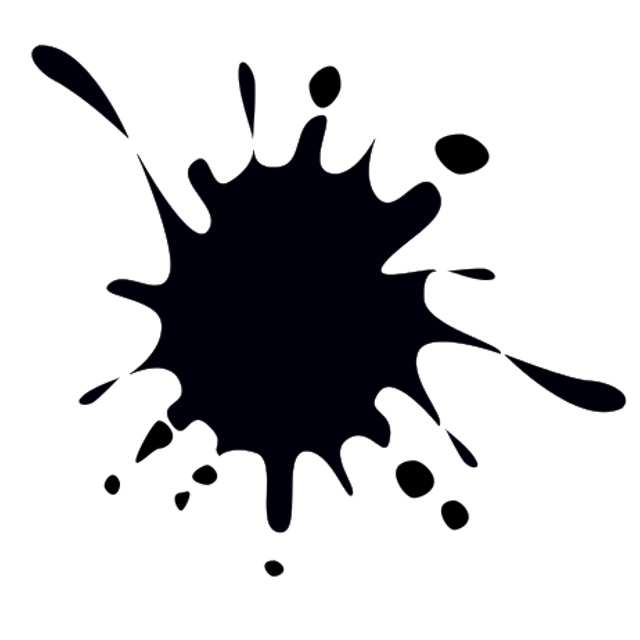
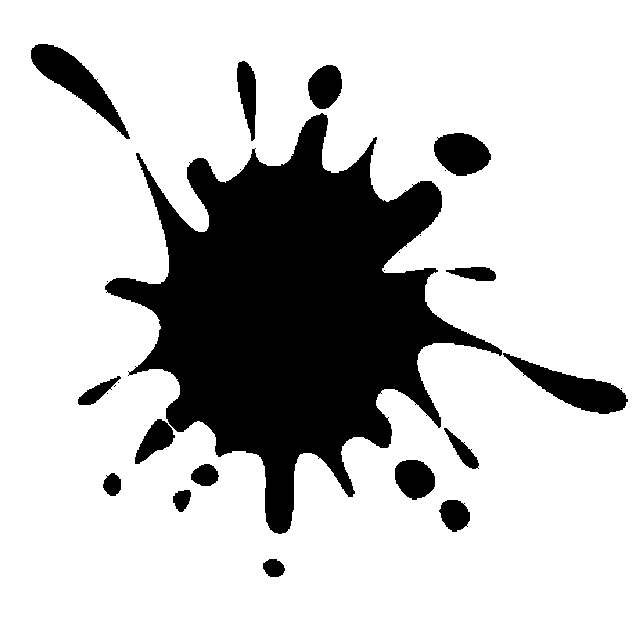
Add white inksplot loading

diff --git a/lib/ui/pages/journeys_screen.dart b/lib/ui/pages/journeys_screen.dart
@@ -1,3 +1,5 @@
+import 'dart:math' show pi;
+
 import 'package:flutter/material.dart';
 import 'package:flutter_bloc/flutter_bloc.dart';
 import 'package:flutter_swiper/flutter_swiper.dart';
@@ -21,12 +23,15 @@ class JourneysScreen extends StatefulWidget {
   final void Function() onInit;
 }
 
-class _JourneysScreenState extends State<JourneysScreen> with SingleTickerProviderStateMixin {
+class _JourneysScreenState extends State<JourneysScreen> with TickerProviderStateMixin {
   int _currentPageIndex = 0;
 
   AnimationController _controller;
   Animation<double> _animation;
   SwiperController _swiperController;
+
+  Animation<double> _angleAnimation;
+  AnimationController loopController;
 
   @override
   void initState() {
@@ -37,6 +42,17 @@ class _JourneysScreenState extends State<JourneysScreen> with SingleTickerProvid
     );
     _animation = Tween<double>(begin: 0.0, end: 1.0).animate(_controller);
     _swiperController = SwiperController();
+
+    loopController = AnimationController(duration: const Duration(seconds: 2), vsync: this);
+    _angleAnimation = Tween(begin: 0.0, end: 360.0).animate(loopController)
+      ..addListener(() {
+        setState(() {
+          // the state that has changed here is the animation object’s value
+        });
+      });
+
+    loopController.forward();
+
     super.initState();
   }
 
@@ -56,10 +72,7 @@ class _JourneysScreenState extends State<JourneysScreen> with SingleTickerProvid
             return Container(
               decoration: BoxDecoration(color: Theme.of(context).backgroundColor),
               child: Center(
-                child: CircularProgressIndicator(
-                  strokeWidth: 1.0,
-                  valueColor: AlwaysStoppedAnimation<Color>(Colors.white),
-                ),
+                child: _buildAnimation(),
               ),
             );
           } else if (state is JourneysWithUser) {
@@ -99,8 +112,26 @@ class _JourneysScreenState extends State<JourneysScreen> with SingleTickerProvid
     );
   }
 
+  Widget _buildAnimation() {
+    const double circleWidth = 50.0;
+    final Widget circles = Container(
+      width: circleWidth * 2.0,
+      height: circleWidth * 2.0,
+      child: Hero(tag: 'logo', child: Image.asset('assets/inksplotw.png')),
+    );
+
+    final double angleInDegrees = _angleAnimation.value;
+    return Transform.rotate(
+      angle: angleInDegrees / 360 * 2 * pi,
+      child: Container(
+        child: circles,
+      ),
+    );
+  }
+
   @override
   void dispose() {
+    loopController.dispose();
     _controller.dispose();
     super.dispose();
   }
